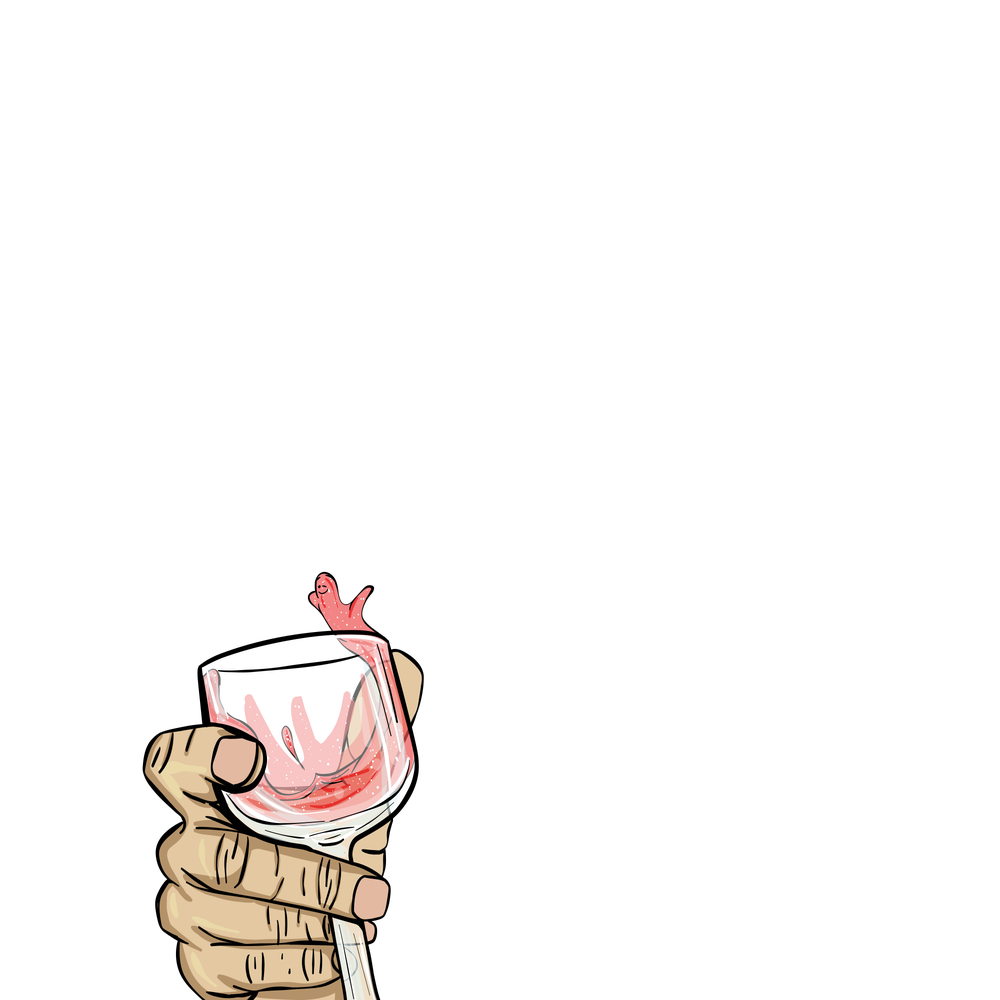
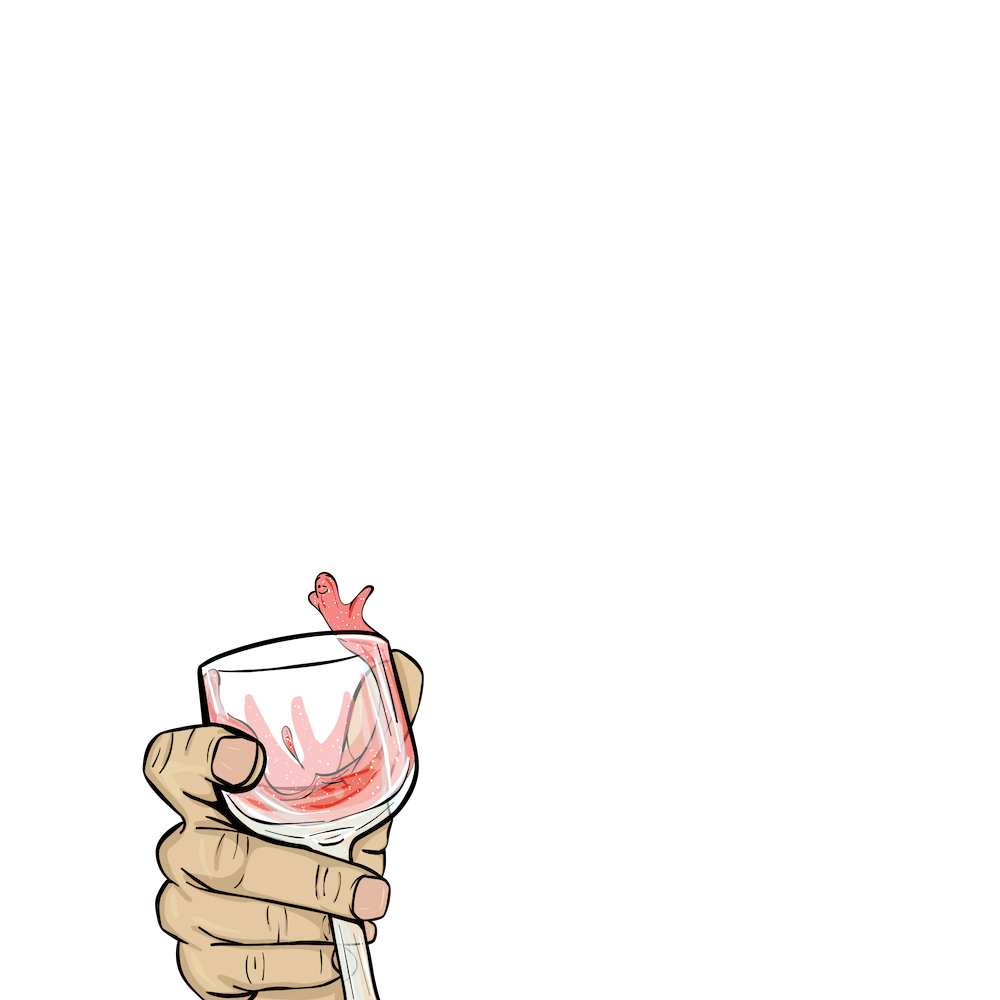
added hand

Changed region(s): [[0.124, 0.713, 0.403, 1.0], [0.372, 0.651, 0.434, 0.713], [0.248, 0.744, 0.279, 0.775]]

diff --git a/frontend/src/App.js b/frontend/src/App.js
@@ -248,6 +248,7 @@ function App() {
                     <select value={selectedAsset} onChange={handleAssetChange} className="dropdown" disabled={!tokenId || thirdAsset === 'selfie'}>
                         <option value="">Select</option>
                         <option value="cheers">Cheers</option>
+                        <option value="candle">Candle</option>
                         <option value="peace">Peace</option>
                         <option value="shoe">BAPE shoe</option>
                     </select>

diff --git a/backend/app.py b/backend/app.py
@@ -25,6 +25,7 @@ special_assets = {
 
 main_assets = {
     'cheers': os.path.join(base_dir, 'memes', 'cheers.png'),
+    'candle': os.path.join(base_dir, 'memes', 'candle.png'),
     'shoe': os.path.join(base_dir, 'memes', 'bape_shoe.png'),
     'peace': os.path.join(base_dir, 'memes', 'peace.png')
     # Add more asset types here as needed
@@ -42,8 +43,8 @@ mouth_assets = {
 }
 
 hat_assets = {
-    'christmas_hat': os.path.join(base_dir, 'memes', 'christmas_hat.png')
-    'christmas_hat2': os.path.join(base_dir, 'memes', 'christmas_hat2.png')
+    'christmas_hat': os.path.join(base_dir, 'memes', 'christmas_hat.png'),
+    'christmas_hat2': os.path.join(base_dir, 'memes', 'christmas_hat2.png'),
     'christmas_hat3': os.path.join(base_dir, 'memes', 'christmas_hat3.png')
 }
 